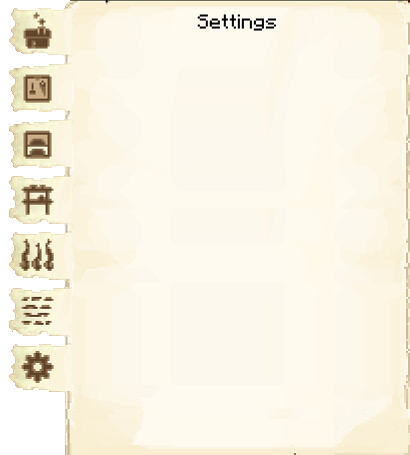
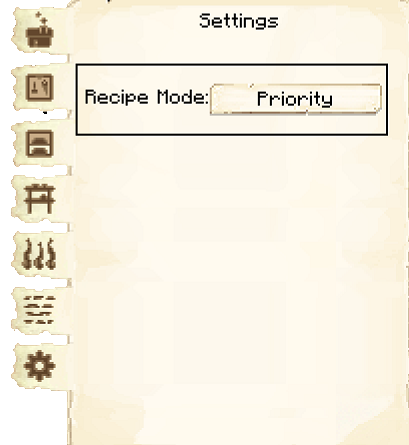
Research settings for Bakery & Blacksmith (#757)
* Update Settings for Bakery & Blacksmith

Added Warehouse Master info

* text fix

diff --git a/source/buildings/blacksmith.md b/source/buildings/blacksmith.md
@@ -95,7 +95,16 @@ When accessing the Blacksmith's Hut block by right-clicking on it, you will see 
   </div>
   <div class="col-sm-12 col-md">
     <br>
-    <p>The fourth tab of the GUI is <strong>Settings</strong>.  This is currently not in use for this hut.</p>
+    <p>The fourth tab of the GUI is <strong>Settings</strong>.</p>
+    <ul>
+      <li><strong>Recipe Mode:</strong> This is unlocked by researching Warehouse Master in the [University](../../source/buildings/university).  This allows you to change the order the hut chooses when it knows more than one recipe for an item.
+        <ul>
+          <li><strong>Priority:</strong>  This is the default setting.  The hut will try to use the recipe that is higher up in their recipe list first.</li>
+          <li><strong>Warehouse Stock:</strong> The hut will look in the warehouse first to see what resource you have more of before deciding what recipe it will use.</li>
+        </ul>
+     </li>
+    </ul>
+    <p>For example: the sawmill has two recipes to make chests, one using 8 oak planks, and one using 8 spruce planks. If the oak planks to chest recipe is higher on the list, the carpenter would always use oak planks to make it (even when there is hardly any oak left). The warehouse stock option could let them select spruce planks, when there is much more spruce planks in the warehouse than oak planks.</p>
   </div>
 </div>
 

diff --git a/source/buildings/bakery.md b/source/buildings/bakery.md
@@ -123,7 +123,16 @@ The Baker can also craft some non-vanilla breads:
   </div>
   <div class="col-sm-12 col-md">
     <br>
-    <p>The seventh tab of the GUI is <strong>Settings</strong>.  This is currently not in use for this hut.</p>
+    <p>The seventh tab of the GUI is <strong>Settings</strong>.</p>
+    <ul>
+      <li><strong>Recipe Mode:</strong> This is unlocked by researching Warehouse Master in the [University](../../source/buildings/university).  This allows you to change the order the hut chooses when it knows more than one recipe for an item.
+        <ul>
+          <li><strong>Priority:</strong>  This is the default setting.  The hut will try to use the recipe that is higher up in their recipe list first.</li>
+          <li><strong>Warehouse Stock:</strong> The hut will look in the warehouse first to see what resource you have more of before deciding what recipe it will use.</li>
+        </ul>
+     </li>
+    </ul>
+    <p>For example: the sawmill has two recipes to make chests, one using 8 oak planks, and one using 8 spruce planks. If the oak planks to chest recipe is higher on the list, the carpenter would always use oak planks to make it (even when there is hardly any oak left). The warehouse stock option could let them select spruce planks, when there is much more spruce planks in the warehouse than oak planks.</p>
   </div>
 </div>
 
